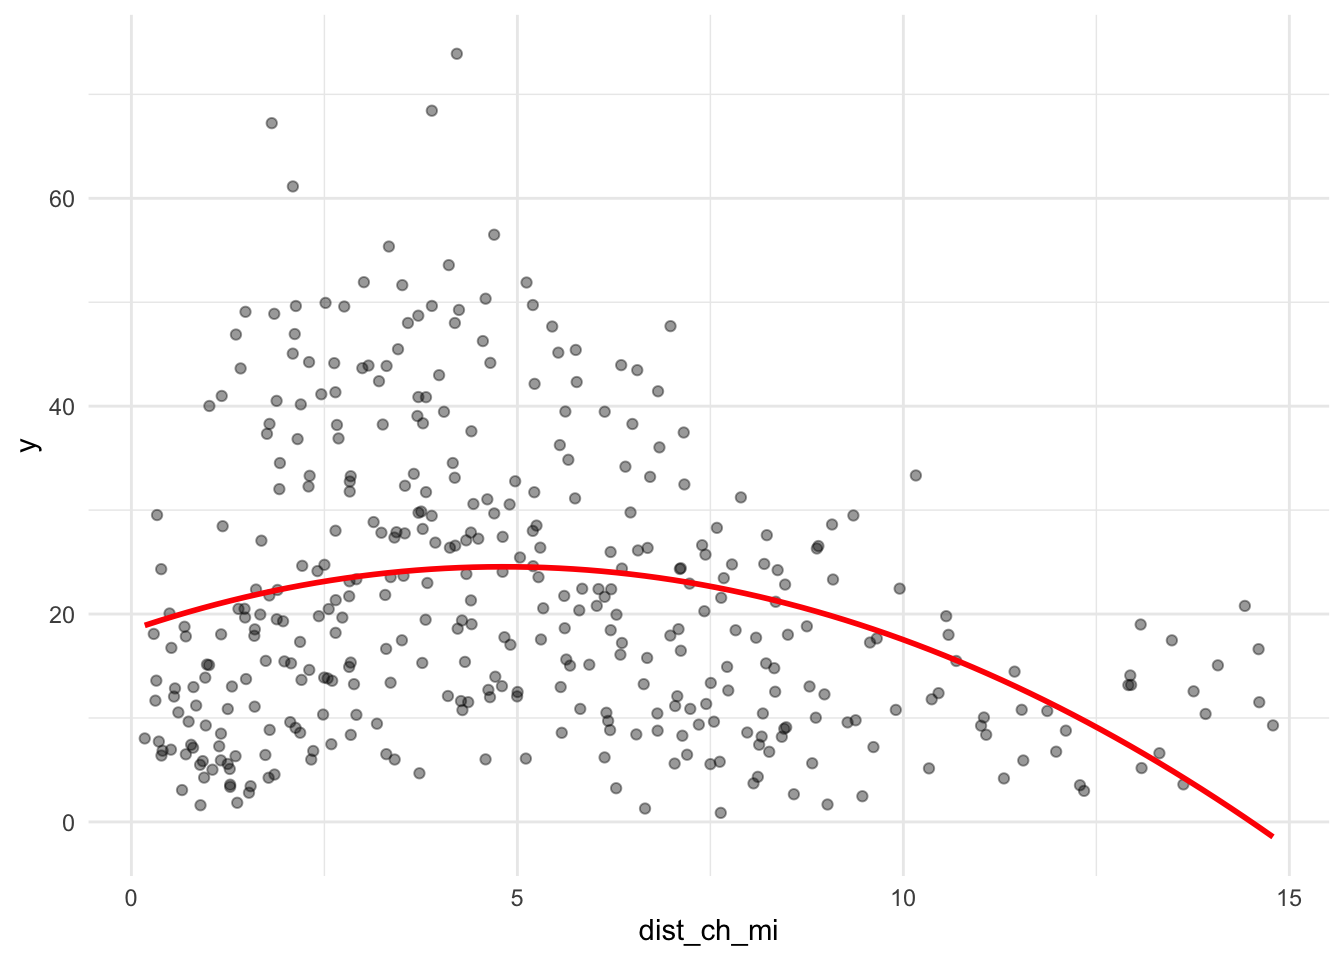
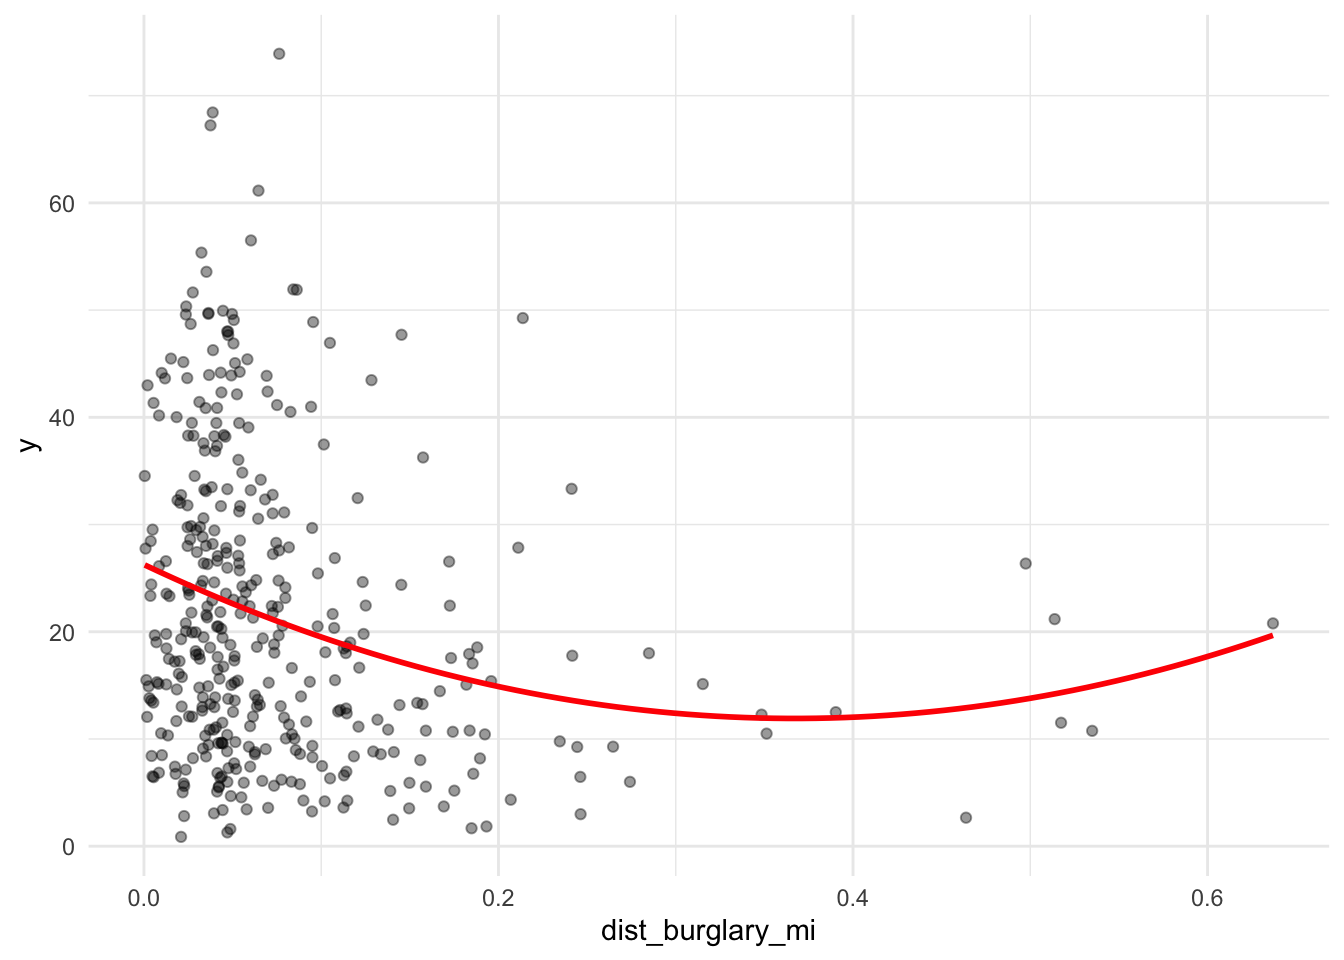
docs: update assignment 4 reflections

diff --git a/docs/assignments/assignment4.html b/docs/assignments/assignment4.html
@@ -550,7 +550,7 @@ pre > code.sourceCode > span > a:first-child::before { text-decoration: underlin
 </div>
 </div>
 <p><strong>Answer:</strong> How many tracts did you lose, and what kinds of places are they?</p>
-<p>The run retained 387 of the 408 ACS tracts, excluding 21 for zero population, unavailable outcome reliability, or missing baseline measures. These exclusions reflect data availability and should not be assumed to be a random subset of Philadelphia neighborhoods.</p>
+<p>The run retained 387 of the 408 ACS tracts. Seventeen excluded tracts have an ACS population estimate of zero; most are high-numbered 9800-series tract geographies, so they are not a random cross-section of residential neighborhoods. Four additional populated tracts are excluded because the poverty estimate or its CV is unavailable, or a baseline rate cannot be calculated. I would map these exclusions before making a stronger claim about their land use or neighborhood type.</p>
 <hr>
 </section>
 </section>
@@ -936,7 +936,7 @@ F-statistic: 106.3 on 5 and 381 DF,  p-value: &lt; 2.2e-16</code></pre>
 <span id="cb38-4"><a href="#cb38-4" aria-hidden="true" tabindex="-1"></a>f2 <span class="ot">&lt;-</span> <span class="fu">update</span>(f1, . <span class="sc">~</span> . <span class="sc">+</span> burglary_per_sqmi)</span>
 <span id="cb38-5"><a href="#cb38-5" aria-hidden="true" tabindex="-1"></a>model_log <span class="ot">&lt;-</span> model_log <span class="sc">%&gt;%</span> <span class="fu">add_row</span>(</span>
 <span id="cb38-6"><a href="#cb38-6" aria-hidden="true" tabindex="-1"></a>  <span class="at">model =</span> <span class="st">"m2"</span>, <span class="at">added =</span> <span class="st">"Burglary records per square mile"</span>,</span>
-<span id="cb38-7"><a href="#cb38-7" aria-hidden="true" tabindex="-1"></a>  <span class="at">cv_rmse =</span> <span class="fu">cv_rmse</span>(f2, tracts), <span class="at">notes =</span> <span class="st">"Improved over ACS baseline"</span>)</span>
+<span id="cb38-7"><a href="#cb38-7" aria-hidden="true" tabindex="-1"></a>  <span class="at">cv_rmse =</span> <span class="fu">cv_rmse</span>(f2, tracts), <span class="at">notes =</span> <span class="st">"Slightly worse than ACS baseline"</span>)</span>
 <span id="cb38-8"><a href="#cb38-8" aria-hidden="true" tabindex="-1"></a></span>
 <span id="cb38-9"><a href="#cb38-9" aria-hidden="true" tabindex="-1"></a>f3 <span class="ot">&lt;-</span> <span class="fu">update</span>(f2, . <span class="sc">~</span> . <span class="sc">+</span> shootings_per_sqmi)</span>
 <span id="cb38-10"><a href="#cb38-10" aria-hidden="true" tabindex="-1"></a>model_log <span class="ot">&lt;-</span> model_log <span class="sc">%&gt;%</span> <span class="fu">add_row</span>(</span>
@@ -954,7 +954,7 @@ F-statistic: 106.3 on 5 and 381 DF,  p-value: &lt; 2.2e-16</code></pre>
   model added                                   cv_rmse notes                   
   &lt;chr&gt; &lt;chr&gt;                                     &lt;dbl&gt; &lt;chr&gt;                   
 1 m1    ACS baseline                               9.05 Unemployment, renter sh…
-2 m2    Burglary records per square mile           9.09 Improved over ACS basel…
+2 m2    Burglary records per square mile           9.09 Slightly worse than ACS…
 3 m3    Shooting-victim records per square mile    8.94 Small additional improv…
 4 m4    Distance to nearest burglary record        8.95 Little change from m3   </code></pre>
 </div>
@@ -1058,7 +1058,7 @@ F-statistic: 21.41 on 2 and 384 DF,  p-value: 1.529e-09</code></pre>
 <div class="cell">
 <details open="" class="code-fold">
 <summary>Code</summary>
-<div class="code-copy-outer-scaffold"><div class="sourceCode cell-code" id="cb44"><pre class="sourceCode r code-with-copy"><code class="sourceCode r"><span id="cb44-1"><a href="#cb44-1" aria-hidden="true" tabindex="-1"></a><span class="fu">ggplot</span>(tracts, <span class="fu">aes</span>(<span class="at">x =</span> dist_ch_mi, <span class="at">y =</span> y)) <span class="sc">+</span></span>
+<div class="code-copy-outer-scaffold"><div class="sourceCode cell-code" id="cb44"><pre class="sourceCode r code-with-copy"><code class="sourceCode r"><span id="cb44-1"><a href="#cb44-1" aria-hidden="true" tabindex="-1"></a><span class="fu">ggplot</span>(tracts, <span class="fu">aes</span>(<span class="at">x =</span> dist_burglary_mi, <span class="at">y =</span> y)) <span class="sc">+</span></span>
 <span id="cb44-2"><a href="#cb44-2" aria-hidden="true" tabindex="-1"></a>  <span class="fu">geom_point</span>(<span class="at">alpha =</span> <span class="fl">0.4</span>) <span class="sc">+</span></span>
 <span id="cb44-3"><a href="#cb44-3" aria-hidden="true" tabindex="-1"></a>  <span class="fu">geom_smooth</span>(<span class="at">method =</span> <span class="st">"lm"</span>, <span class="at">formula =</span> y <span class="sc">~</span> x <span class="sc">+</span> <span class="fu">I</span>(x<span class="sc">^</span><span class="dv">2</span>), <span class="at">se =</span> <span class="cn">FALSE</span>, <span class="at">color =</span> <span class="st">"red"</span>) <span class="sc">+</span></span>
 <span id="cb44-4"><a href="#cb44-4" aria-hidden="true" tabindex="-1"></a>  <span class="fu">theme_minimal</span>()</span></code></pre></div><button title="Copy to Clipboard" class="code-copy-button"><i class="bi"></i></button></div>
@@ -1175,7 +1175,7 @@ F-statistic: 29.28 on 2 and 384 DF,  p-value: 1.466e-12</code></pre>
   model added                                   cv_rmse notes                   
   &lt;chr&gt; &lt;chr&gt;                                     &lt;dbl&gt; &lt;chr&gt;                   
 1 m1    ACS baseline                               9.05 Unemployment, renter sh…
-2 m2    Burglary records per square mile           9.09 Improved over ACS basel…
+2 m2    Burglary records per square mile           9.09 Slightly worse than ACS…
 3 m3    Shooting-victim records per square mile    8.94 Small additional improv…
 4 m4    Distance to nearest burglary record        8.95 Little change from m3   
 5 m5    log1p burglary density                     8.89 Compresses right tail   
@@ -1184,7 +1184,7 @@ F-statistic: 29.28 on 2 and 384 DF,  p-value: 1.466e-12</code></pre>
 </div>
 </div>
 <p><strong>Answer:</strong> Which transformation helped most? For your categorical variable, write one sentence reading one of its coefficients correctly, naming the reference level.</p>
-<p>The log-density model performed best (m5, RMSE 8.89). In categorical model m7, <code>Core</code> is the reference; its <code>ringOuter</code> estimate is −1.92, meaning Outer tracts are predicted to have poverty rates about 1.92 percentage points lower than Core tracts, holding the other predictors fixed. This is an adjusted association; m7 is not the final model because its CV RMSE is slightly higher.</p>
+<p>The log-density model performed best (m5, RMSE 8.89). In categorical model m7, <code>Core</code> is the reference; its <code>ringOuter</code> estimate is +1.52, meaning Outer tracts are predicted to have poverty rates about 1.52 percentage points higher than Core tracts, holding the other predictors fixed. This is an adjusted association; m7 is not the final model because its CV RMSE is slightly higher.</p>
 <hr>
 </section>
 </section>
@@ -1240,7 +1240,7 @@ F-statistic: 72.83 on 8 and 378 DF,  p-value: &lt; 2.2e-16</code></pre>
   model added                                                      cv_rmse notes
   &lt;chr&gt; &lt;chr&gt;                                                        &lt;dbl&gt; &lt;chr&gt;
 1 m1    ACS baseline                                                  9.05 Unem…
-2 m2    Burglary records per square mile                              9.09 Impr…
+2 m2    Burglary records per square mile                              9.09 Slig…
 3 m3    Shooting-victim records per square mile                       8.94 Smal…
 4 m4    Distance to nearest burglary record                           8.95 Litt…
 5 m5    log1p burglary density                                        8.89 Comp…
@@ -1332,7 +1332,7 @@ F-statistic: 72.83 on 8 and 378 DF,  p-value: &lt; 2.2e-16</code></pre>
 </ol>
 <p>The ACS baseline had a 10-fold CV RMSE of 9.05 percentage points. Adding burglary density raised it slightly to 9.09; adding shooting-victim density then lowered it to 8.94. Nearest-burglary distance changed it to 8.95, so that feature did not help. The relationship may reflect broader neighborhood conditions, but incident counts are indirect measures and are influenced by reporting and enforcement. Among the transformations, log burglary density performed best (8.89); the distance category scored 8.96 and squared distance 8.99. The log model’s improvement over baseline is small, so it should not be oversold.</p>
 <p>In the final model, the shooting-victim density coefficient is about 0.020. Holding other predictors fixed, 100 additional shooting-victim records per square mile correspond to about a 2-percentage-point higher predicted poverty rate. For an ŷ reading, the example Core tract (GEOID 42101001301) has a fitted rate of 5.90% versus an observed estimate of 13.03%; the example Outer tract (GEOID 42101027402) has a fitted rate of 22.16% versus an observed estimate of 16.09%. These are predictions for two actual tracts, not a controlled Core-versus-Outer comparison.</p>
-<p>The residual map still shows clusters of over- and under-prediction, especially in central and northern parts of the city. A useful next feature could measure access to jobs or commute times, since the model has no direct measure of economic opportunity. The CV-versus-absolute-in-sample-residual plot trends upward at higher CV values, but is noisy and does not tell us what share of error is sampling uncertainty; residuals also reflect omitted predictors, measurement error, and model form. In addition, these random 10-fold splits can place nearby tracts in both training and test sets, so they may overstate how well the model predicts in a geographically separate area; spatially blocked validation would be a useful next check. Poverty passes the assignment’s one-third low-reliability screen, but most estimates are only moderate reliability rather than precise. I would use this model to explore broad patterns, not make high-stakes decisions about individual tracts.</p>
+<p>The residual map still shows clusters of over- and under-prediction, especially in central and northern parts of the city. A useful next feature could measure access to jobs or commute times, using ACS commute-time estimates or Census LEHD/LODES job-flow data, since the model has no direct measure of economic opportunity. The CV-versus-absolute-in-sample-residual plot trends upward at higher CV values, but is noisy and does not tell us what share of error is sampling uncertainty; residuals also reflect omitted predictors, measurement error, and model form. In addition, these random 10-fold splits can place nearby tracts in both training and test sets, so they may overstate how well the model predicts in a geographically separate area; spatially blocked validation would be a useful next check. Poverty passes the assignment’s one-third low-reliability screen, but most estimates are only moderate reliability rather than precise. I would use this model to explore broad patterns, not make high-stakes decisions about individual tracts.</p>
 <hr>
 
 
@@ -2011,7 +2011,7 @@ F-statistic: 72.83 on 8 and 378 DF,  p-value: &lt; 2.2e-16</code></pre>
 <span id="cb61-231"><a href="#cb61-231" aria-hidden="true" tabindex="-1"></a></span>
 <span id="cb61-232"><a href="#cb61-232" aria-hidden="true" tabindex="-1"></a>**Answer:** How many tracts did you lose, and what kinds of places are they?</span>
 <span id="cb61-233"><a href="#cb61-233" aria-hidden="true" tabindex="-1"></a></span>
-<span id="cb61-234"><a href="#cb61-234" aria-hidden="true" tabindex="-1"></a>The run retained 387 of the 408 ACS tracts, excluding 21 for zero population, unavailable outcome reliability, or missing baseline measures. These exclusions reflect data availability and should not be assumed to be a random subset of Philadelphia neighborhoods.</span>
+<span id="cb61-234"><a href="#cb61-234" aria-hidden="true" tabindex="-1"></a>The run retained 387 of the 408 ACS tracts. Seventeen excluded tracts have an ACS population estimate of zero; most are high-numbered 9800-series tract geographies, so they are not a random cross-section of residential neighborhoods. Four additional populated tracts are excluded because the poverty estimate or its CV is unavailable, or a baseline rate cannot be calculated. I would map these exclusions before making a stronger claim about their land use or neighborhood type.</span>
 <span id="cb61-235"><a href="#cb61-235" aria-hidden="true" tabindex="-1"></a></span>
 <span id="cb61-236"><a href="#cb61-236" aria-hidden="true" tabindex="-1"></a>---</span>
 <span id="cb61-237"><a href="#cb61-237" aria-hidden="true" tabindex="-1"></a></span>
@@ -2270,7 +2270,7 @@ F-statistic: 72.83 on 8 and 378 DF,  p-value: &lt; 2.2e-16</code></pre>
 <span id="cb61-514"><a href="#cb61-514" aria-hidden="true" tabindex="-1"></a>f2 <span class="ot">&lt;-</span> <span class="fu">update</span>(f1, . <span class="sc">~</span> . <span class="sc">+</span> burglary_per_sqmi)</span>
 <span id="cb61-515"><a href="#cb61-515" aria-hidden="true" tabindex="-1"></a>model_log <span class="ot">&lt;-</span> model_log <span class="sc">%&gt;%</span> <span class="fu">add_row</span>(</span>
 <span id="cb61-516"><a href="#cb61-516" aria-hidden="true" tabindex="-1"></a>  <span class="at">model =</span> <span class="st">"m2"</span>, <span class="at">added =</span> <span class="st">"Burglary records per square mile"</span>,</span>
-<span id="cb61-517"><a href="#cb61-517" aria-hidden="true" tabindex="-1"></a>  <span class="at">cv_rmse =</span> <span class="fu">cv_rmse</span>(f2, tracts), <span class="at">notes =</span> <span class="st">"Improved over ACS baseline"</span>)</span>
+<span id="cb61-517"><a href="#cb61-517" aria-hidden="true" tabindex="-1"></a>  <span class="at">cv_rmse =</span> <span class="fu">cv_rmse</span>(f2, tracts), <span class="at">notes =</span> <span class="st">"Slightly worse than ACS baseline"</span>)</span>
 <span id="cb61-518"><a href="#cb61-518" aria-hidden="true" tabindex="-1"></a></span>
 <span id="cb61-519"><a href="#cb61-519" aria-hidden="true" tabindex="-1"></a>f3 <span class="ot">&lt;-</span> <span class="fu">update</span>(f2, . <span class="sc">~</span> . <span class="sc">+</span> shootings_per_sqmi)</span>
 <span id="cb61-520"><a href="#cb61-520" aria-hidden="true" tabindex="-1"></a>model_log <span class="ot">&lt;-</span> model_log <span class="sc">%&gt;%</span> <span class="fu">add_row</span>(</span>
@@ -2332,7 +2332,7 @@ F-statistic: 72.83 on 8 and 378 DF,  p-value: &lt; 2.2e-16</code></pre>
 <span id="cb61-580"><a href="#cb61-580" aria-hidden="true" tabindex="-1"></a></span>
 <span id="cb61-583"><a href="#cb61-583" aria-hidden="true" tabindex="-1"></a><span class="in">```{r}</span></span>
 <span id="cb61-584"><a href="#cb61-584" aria-hidden="true" tabindex="-1"></a><span class="co">#| label: squared-plot</span></span>
-<span id="cb61-585"><a href="#cb61-585" aria-hidden="true" tabindex="-1"></a><span class="fu">ggplot</span>(tracts, <span class="fu">aes</span>(<span class="at">x =</span> dist_ch_mi, <span class="at">y =</span> y)) <span class="sc">+</span></span>
+<span id="cb61-585"><a href="#cb61-585" aria-hidden="true" tabindex="-1"></a><span class="fu">ggplot</span>(tracts, <span class="fu">aes</span>(<span class="at">x =</span> dist_burglary_mi, <span class="at">y =</span> y)) <span class="sc">+</span></span>
 <span id="cb61-586"><a href="#cb61-586" aria-hidden="true" tabindex="-1"></a>  <span class="fu">geom_point</span>(<span class="at">alpha =</span> <span class="fl">0.4</span>) <span class="sc">+</span></span>
 <span id="cb61-587"><a href="#cb61-587" aria-hidden="true" tabindex="-1"></a>  <span class="fu">geom_smooth</span>(<span class="at">method =</span> <span class="st">"lm"</span>, <span class="at">formula =</span> y <span class="sc">~</span> x <span class="sc">+</span> <span class="fu">I</span>(x<span class="sc">^</span><span class="dv">2</span>), <span class="at">se =</span> <span class="cn">FALSE</span>, <span class="at">color =</span> <span class="st">"red"</span>) <span class="sc">+</span></span>
 <span id="cb61-588"><a href="#cb61-588" aria-hidden="true" tabindex="-1"></a>  <span class="fu">theme_minimal</span>()</span>
@@ -2396,7 +2396,7 @@ F-statistic: 72.83 on 8 and 378 DF,  p-value: &lt; 2.2e-16</code></pre>
 <span id="cb61-650"><a href="#cb61-650" aria-hidden="true" tabindex="-1"></a></span>
 <span id="cb61-651"><a href="#cb61-651" aria-hidden="true" tabindex="-1"></a>**Answer:** Which transformation helped most? For your categorical variable, write one sentence reading one of its coefficients correctly, naming the reference level.</span>
 <span id="cb61-652"><a href="#cb61-652" aria-hidden="true" tabindex="-1"></a></span>
-<span id="cb61-653"><a href="#cb61-653" aria-hidden="true" tabindex="-1"></a>The log-density model performed best (m5, RMSE 8.89). In categorical model m7, <span class="in">`Core`</span> is the reference; its <span class="in">`ringOuter`</span> estimate is −1.92, meaning Outer tracts are predicted to have poverty rates about 1.92 percentage points lower than Core tracts, holding the other predictors fixed. This is an adjusted association; m7 is not the final model because its CV RMSE is slightly higher.</span>
+<span id="cb61-653"><a href="#cb61-653" aria-hidden="true" tabindex="-1"></a>The log-density model performed best (m5, RMSE 8.89). In categorical model m7, <span class="in">`Core`</span> is the reference; its <span class="in">`ringOuter`</span> estimate is +1.52, meaning Outer tracts are predicted to have poverty rates about 1.52 percentage points higher than Core tracts, holding the other predictors fixed. This is an adjusted association; m7 is not the final model because its CV RMSE is slightly higher.</span>
 <span id="cb61-654"><a href="#cb61-654" aria-hidden="true" tabindex="-1"></a></span>
 <span id="cb61-655"><a href="#cb61-655" aria-hidden="true" tabindex="-1"></a>---</span>
 <span id="cb61-656"><a href="#cb61-656" aria-hidden="true" tabindex="-1"></a></span>
@@ -2484,7 +2484,7 @@ F-statistic: 72.83 on 8 and 378 DF,  p-value: &lt; 2.2e-16</code></pre>
 <span id="cb61-746"><a href="#cb61-746" aria-hidden="true" tabindex="-1"></a></span>
 <span id="cb61-747"><a href="#cb61-747" aria-hidden="true" tabindex="-1"></a>In the final model, the shooting-victim density coefficient is about 0.020. Holding other predictors fixed, 100 additional shooting-victim records per square mile correspond to about a 2-percentage-point higher predicted poverty rate. For an ŷ reading, the example Core tract (GEOID 42101001301) has a fitted rate of 5.90% versus an observed estimate of 13.03%; the example Outer tract (GEOID 42101027402) has a fitted rate of 22.16% versus an observed estimate of 16.09%. These are predictions for two actual tracts, not a controlled Core-versus-Outer comparison.</span>
 <span id="cb61-748"><a href="#cb61-748" aria-hidden="true" tabindex="-1"></a></span>
-<span id="cb61-749"><a href="#cb61-749" aria-hidden="true" tabindex="-1"></a>The residual map still shows clusters of over- and under-prediction, especially in central and northern parts of the city. A useful next feature could measure access to jobs or commute times, since the model has no direct measure of economic opportunity. The CV-versus-absolute-in-sample-residual plot trends upward at higher CV values, but is noisy and does not tell us what share of error is sampling uncertainty; residuals also reflect omitted predictors, measurement error, and model form. In addition, these random 10-fold splits can place nearby tracts in both training and test sets, so they may overstate how well the model predicts in a geographically separate area; spatially blocked validation would be a useful next check. Poverty passes the assignment's one-third low-reliability screen, but most estimates are only moderate reliability rather than precise. I would use this model to explore broad patterns, not make high-stakes decisions about individual tracts.</span>
+<span id="cb61-749"><a href="#cb61-749" aria-hidden="true" tabindex="-1"></a>The residual map still shows clusters of over- and under-prediction, especially in central and northern parts of the city. A useful next feature could measure access to jobs or commute times, using ACS commute-time estimates or Census LEHD/LODES job-flow data, since the model has no direct measure of economic opportunity. The CV-versus-absolute-in-sample-residual plot trends upward at higher CV values, but is noisy and does not tell us what share of error is sampling uncertainty; residuals also reflect omitted predictors, measurement error, and model form. In addition, these random 10-fold splits can place nearby tracts in both training and test sets, so they may overstate how well the model predicts in a geographically separate area; spatially blocked validation would be a useful next check. Poverty passes the assignment's one-third low-reliability screen, but most estimates are only moderate reliability rather than precise. I would use this model to explore broad patterns, not make high-stakes decisions about individual tracts.</span>
 <span id="cb61-750"><a href="#cb61-750" aria-hidden="true" tabindex="-1"></a></span>
 <span id="cb61-751"><a href="#cb61-751" aria-hidden="true" tabindex="-1"></a>---</span>
 </code></pre></div><button title="Copy to Clipboard" class="code-copy-button" data-in-quarto-modal=""><i class="bi"></i></button></div>

diff --git a/docs/assignments/index.html b/docs/assignments/index.html
@@ -283,7 +283,7 @@ window.Quarto = {
 
 <div class="quarto-listing quarto-listing-container-default" id="listing-listing">
 <div class="list quarto-listing-default">
-<div class="quarto-post image-right" data-index="0" data-listing-file-modified-sort="1792099747197" data-listing-reading-time-sort="23" data-listing-word-count-sort="4404">
+<div class="quarto-post image-right" data-index="0" data-listing-file-modified-sort="1792100727562" data-listing-reading-time-sort="23" data-listing-word-count-sort="4404">
 <div class="body">
 <h3 class="no-anchor listing-title">
 <a href="../assignments/assignment4.html" class="no-external">Assignment: Building Features, Watching What Happens</a>
